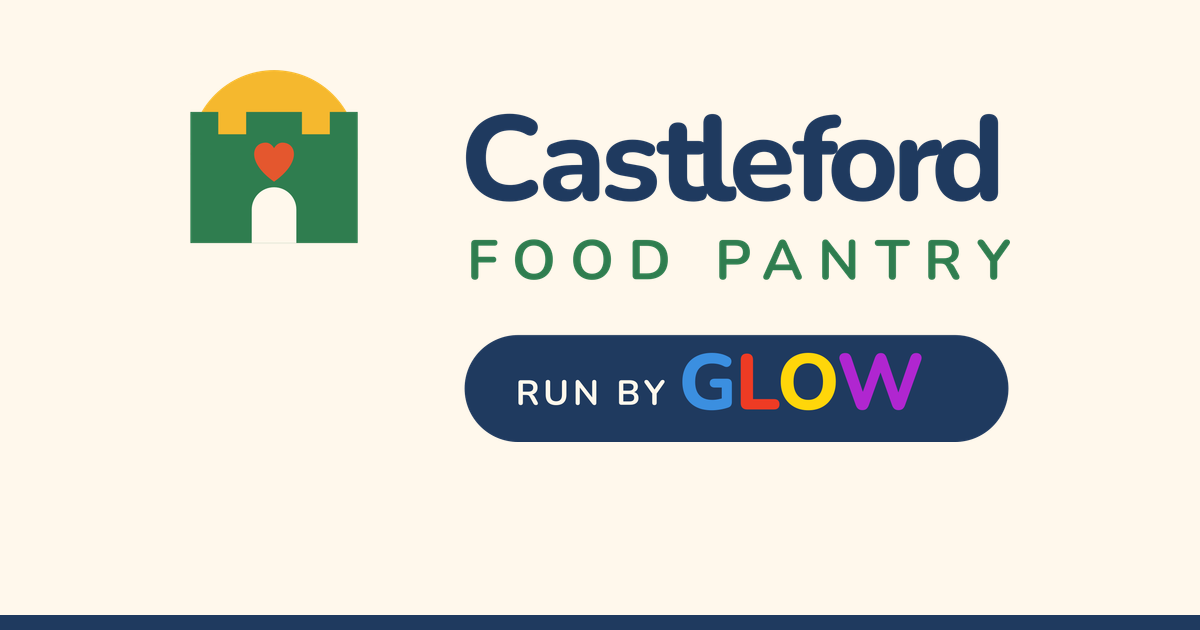
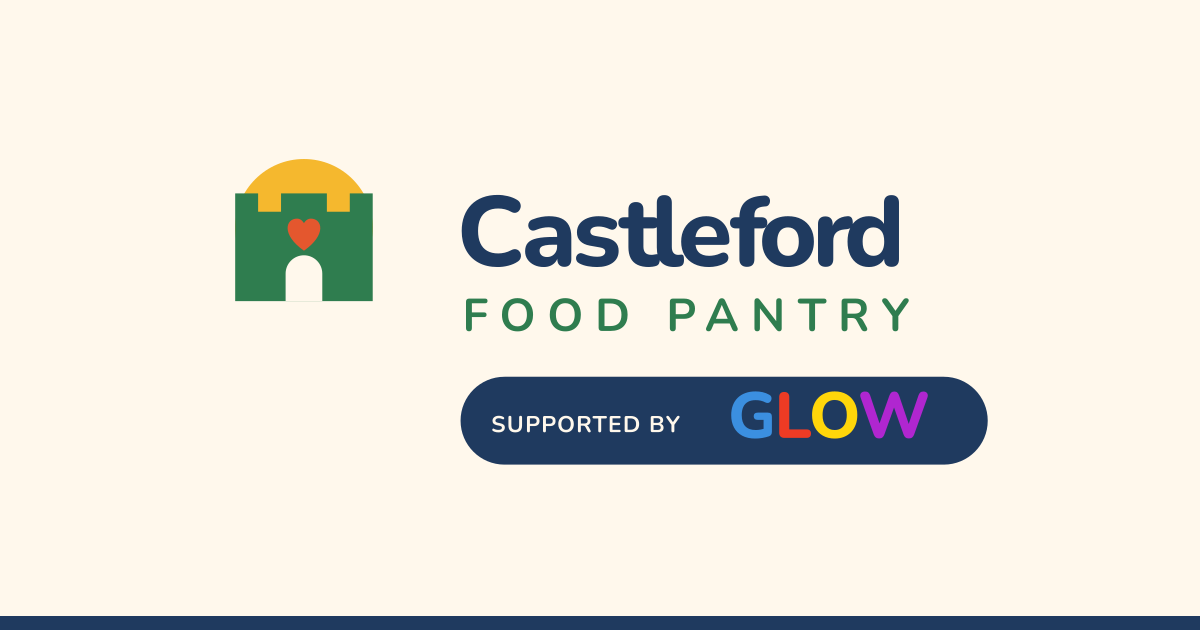
content: replace 'hosted by GLOW' with 'supported by GLOW' across the site and spec

Changed region(s): [[0.37, 0.181, 0.8633, 0.754], [0.1542, 0.0905, 0.3083, 0.4825]]

diff --git a/wp-content/themes/castleford-food-pantry/patterns/site-footer.php b/wp-content/themes/castleford-food-pantry/patterns/site-footer.php
@@ -12,7 +12,7 @@ $home = esc_url( home_url( '/' ) );
 <div class="cfp-glowbar" aria-hidden="true"></div>
 <div class="cfp-footer__inner">
 	<div>
-		<img src="<?php echo cfp_asset( 'images/logo-banner.svg' ); ?>" width="260" height="130" alt="Castleford Community Food Pantry, hosted by GLOW" style="max-width:260px;height:auto;border-radius:1rem" loading="lazy" />
+		<img src="<?php echo cfp_asset( 'images/logo-banner.svg' ); ?>" width="260" height="130" alt="Castleford Community Food Pantry, supported by GLOW" style="max-width:260px;height:auto;border-radius:1rem" loading="lazy" />
 		<p style="margin-top:1.25rem"><?php esc_html_e( 'Together we can reduce waste, feed people, build community.', 'castleford-food-pantry' ); ?></p>
 		<?php echo cfp_glow_wordmark( 'cfp-glow--on-dark' ); ?>
 	</div>
@@ -37,6 +37,6 @@ $home = esc_url( home_url( '/' ) );
 		</ul>
 	</div>
 </div>
-<p class="cfp-footer__legal">&copy; <?php echo esc_html( gmdate( 'Y' ) ); ?> Castleford Community Food Pantry. The pantry is hosted by GLOW, who kindly provide space in their churches. GLOW does not run the pantry.</p>
+<p class="cfp-footer__legal">&copy; <?php echo esc_html( gmdate( 'Y' ) ); ?> Castleford Community Food Pantry. The pantry is supported by GLOW, who kindly provide space in their churches. GLOW does not run the pantry.</p>
 <!-- /wp:html --></footer>
 <!-- /wp:group -->

diff --git a/wp-content/themes/castleford-food-pantry/inc/helpers.php b/wp-content/themes/castleford-food-pantry/inc/helpers.php
@@ -8,17 +8,17 @@
 defined( 'ABSPATH' ) || exit;
 
 /**
- * Multicolour GLOW wordmark (Req 2.6, 10.1, 10.2; wording per owner: GLOW hosts, does not run, the pantry).
+ * Multicolour GLOW wordmark (Req 2.6, 10.1, 10.2; wording per owner: GLOW supports, but does not run, the pantry).
  *
  * Each letter uses its own colour token. The group is exposed to assistive tech
- * as a single image labelled "hosted by GLOW".
+ * as a single image labelled "supported by GLOW".
  *
  * @param string $class Extra class names.
  * @return string
  */
 function cfp_glow_wordmark( $class = '' ) {
-	return '<p class="cfp-glow ' . esc_attr( $class ) . '" role="img" aria-label="hosted by GLOW">'
-		. '<span class="cfp-glow__by" aria-hidden="true">hosted by</span> '
+	return '<p class="cfp-glow ' . esc_attr( $class ) . '" role="img" aria-label="supported by GLOW">'
+		. '<span class="cfp-glow__by" aria-hidden="true">supported by</span> '
 		. '<span class="cfp-glow__word" aria-hidden="true">'
 		. '<span class="glow glow--g">G</span><span class="glow glow--l">L</span>'
 		. '<span class="glow glow--o">O</span><span class="glow glow--w">W</span>'

diff --git a/wp-content/themes/castleford-food-pantry/patterns/site-header.php b/wp-content/themes/castleford-food-pantry/patterns/site-header.php
@@ -14,7 +14,7 @@ $home = esc_url( home_url( '/' ) );
 <!-- wp:group {"className":"cfp-header","tagName":"header","layout":{"type":"default"}} -->
 <header class="wp-block-group cfp-header"><!-- wp:group {"className":"cfp-header__inner","layout":{"type":"default"}} -->
 <div class="wp-block-group cfp-header__inner"><!-- wp:html -->
-<a class="cfp-header__logo" href="<?php echo $home; ?>" aria-label="Castleford Community Food Pantry, hosted by GLOW - home"><img src="<?php echo cfp_asset( 'images/logo-horizontal.svg' ); ?>" width="450" height="200" alt="Castleford Community Food Pantry, hosted by GLOW" /></a>
+<a class="cfp-header__logo" href="<?php echo $home; ?>" aria-label="Castleford Community Food Pantry, supported by GLOW - home"><img src="<?php echo cfp_asset( 'images/logo-horizontal.svg' ); ?>" width="450" height="200" alt="Castleford Community Food Pantry, supported by GLOW" /></a>
 <!-- /wp:html -->
 
 <!-- wp:navigation {"overlayMenu":"mobile","ariaLabel":"Primary","layout":{"type":"flex","justifyContent":"right"}} -->

diff --git a/wp-content/themes/castleford-food-pantry/inc/seo.php b/wp-content/themes/castleford-food-pantry/inc/seo.php
@@ -28,7 +28,7 @@ function cfp_seo_head() {
 	if ( cfp_seo_plugin_active() || ! is_front_page() ) {
 		return;
 	}
-	$desc  = 'Castleford Community Food Pantry rescues surplus food from landfill and shares it with the community for £1. No referral needed. Sessions on Sundays and Fridays. Hosted by GLOW.';
+	$desc  = 'Castleford Community Food Pantry rescues surplus food from landfill and shares it with the community for £1. No referral needed. Sessions on Sundays and Fridays. Supported by GLOW.';
 	$title = 'Castleford Community Food Pantry | Surplus food for just £1';
 	$url   = home_url( '/' );
 	$image = get_theme_file_uri( 'assets/images/og-image.png' );
@@ -44,7 +44,7 @@ function cfp_seo_head() {
 		'og:image'        => $image,
 		'og:image:width'  => '1200',
 		'og:image:height' => '630',
-		'og:image:alt'    => 'Castleford Community Food Pantry, hosted by GLOW',
+		'og:image:alt'    => 'Castleford Community Food Pantry, supported by GLOW',
 		'og:locale'       => 'en_GB',
 	);
 	foreach ( $og as $k => $v ) {

diff --git a/wp-content/themes/castleford-food-pantry/patterns/hero.php b/wp-content/themes/castleford-food-pantry/patterns/hero.php
@@ -29,7 +29,7 @@ $home = esc_url( home_url( '/' ) );
 					<source src="<?php echo cfp_asset( 'video/castleford-food-pantry-video.mp4' ); ?>" type="video/mp4" />
 				</video>
 			</div>
-			<div class="cfp-hero__badge"><img src="<?php echo cfp_asset( 'images/logo-badge.svg' ); ?>" width="400" height="400" alt="Castleford Community Food Pantry, hosted by GLOW" /></div>
+			<div class="cfp-hero__badge"><img src="<?php echo cfp_asset( 'images/logo-badge.svg' ); ?>" width="400" height="400" alt="Castleford Community Food Pantry, supported by GLOW" /></div>
 		</div>
 	</div>
 </section>

diff --git a/wp-content/themes/castleford-food-pantry/patterns/about.php b/wp-content/themes/castleford-food-pantry/patterns/about.php
@@ -26,7 +26,7 @@
 <!-- /wp:paragraph -->
 
 <!-- wp:paragraph -->
-<p>The pantry is hosted by <strong>GLOW</strong>, who generously provide space in their churches so we can run our sessions. GLOW does not run the pantry. It is a community effort powered by local volunteers.</p>
+<p>The pantry is supported by <strong>GLOW</strong>, who generously provide space in their churches so we can run our sessions. GLOW does not run the pantry. It is a community effort powered by local volunteers.</p>
 <!-- /wp:paragraph -->
 
 <!-- wp:paragraph {"className":"cfp-eyebrow"} -->

diff --git a/.kiro/specs/castleford-food-pantry-website/design.md b/.kiro/specs/castleford-food-pantry-website/design.md
@@ -37,9 +37,9 @@ The tone and structure follow established UK community-charity sites — a warm 
 
 Three candidates exist in `website-images/`:
 
-- `v2-1-castle-sun-glow.svg` — horizontal lockup: sun/castle mark, "Castleford / FOOD PANTRY", and a "RUN BY GLOW" pill.
+- `v2-1-castle-sun-glow.svg` — horizontal lockup: sun/castle mark, "Castleford / FOOD PANTRY", and a "SUPPORTED BY GLOW" pill.
 - `v2-2-badge-glow.svg` — circular GLOW badge: "CASTLEFORD COMMUNITY · FOOD PANTRY" curved around a central GLOW mark.
-- `v2-3-battlement-glow.svg` — castle-battlement banner shape with a "RUN BY GLOW" footer bar.
+- `v2-3-battlement-glow.svg` — castle-battlement banner shape with a "SUPPORTED BY GLOW" footer bar.
 
 **Recommendation: the circular GLOW badge (`v2-2-badge-glow.svg`) is the authentic brand mark and is the primary identity.** The real flyer uses this circular badge — "CASTLEFORD COMMUNITY · FOOD PANTRY" curved around a central GLOW mark — as its hero brand mark, with the wordmark set as "CASTLEFORD COMMUNITY" (navy) / "FOOD" (orange-red) / "PANTRY" (purple). Because this matches the pantry's actual, published identity, the design treats it as the real brand mark. Rationale:
 
@@ -47,7 +47,7 @@ Three candidates exist in `website-images/`:
 - Its square format (400×400) is ideal as the **primary hero identity mark, favicon, and Open Graph / social-share image**.
 - It presents the organization name, the "FOOD PANTRY" descriptor, and the multicolor GLOW mark together, supporting Req 3.1, 10.2, and 10.3.
 
-**Practical header note:** a square badge forces either a small or an oversized header on wide viewports, so the horizontal lockup (`v2-1-castle-sun-glow.svg`, 580×200) is used as the **header lockup where a wide format is needed** — it scales down for mobile without the text becoming unreadable while still presenting the mark, name, and "RUN BY GLOW" attribution. `v2-3-battlement-glow.svg` is retained as an **alternate footer banner** option. All three SVGs remain available in the theme, and all use the four GLOW letter colors correctly, so any can satisfy Req 2.6.
+**Practical header note:** a square badge forces either a small or an oversized header on wide viewports, so the horizontal lockup (`v2-1-castle-sun-glow.svg`, 580×200) is used as the **header lockup where a wide format is needed** — it scales down for mobile without the text becoming unreadable while still presenting the mark, name, and "SUPPORTED BY GLOW" attribution. `v2-3-battlement-glow.svg` is retained as an **alternate footer banner** option. All three SVGs remain available in the theme, and all use the four GLOW letter colors correctly, so any can satisfy Req 2.6.
 
 ## Architecture
 
@@ -188,7 +188,7 @@ Each template is an HTML file of block markup. Every template references the sam
 **Site_Header (`parts/header.html`)**
 
 - Skip link (first focusable element, targets `#main`) — Req 12.7.
-- Site logo block linked to home, alt text "Castleford Community Food Pantry, run by GLOW" — Req 3.1, 10.3. The header uses the horizontal lockup (`v2-1`) where a wide format is needed, while the circular GLOW badge (`v2-2`) is the primary brand mark / favicon / social image.
+- Site logo block linked to home, alt text "Castleford Community Food Pantry, supported by GLOW" — Req 3.1, 10.3. The header uses the horizontal lockup (`v2-1`) where a wide format is needed, while the circular GLOW badge (`v2-2`) is the primary brand mark / favicon / social image.
 - Primary_Navigation block (core `navigation`) with entries for each section — Req 3.2.
 - Persistent support CTA button linking to the Support / Get Involved section (anchor `#donate`) — Req 3.5.
 - Navigation collapses to a menu control at ≤782px via the core navigation block's responsive overlay — Req 3.4.
@@ -197,7 +197,7 @@ Navigation entries use the core navigation link block, whose `url` may be an in-
 
 **Site_Footer (`parts/footer.html`)**
 
-- GLOW_Branding block (multicolor wordmark + "run by GLOW") — Req 10.1, 10.2.
+- GLOW_Branding block (multicolor wordmark + "supported by GLOW") — Req 10.1, 10.2.
 - Contact summary (email `castlefordcommunityfoodpantry@gmail.com`, the named phone contacts Laura / Kim / Tracy, and venue addresses) and social links — Req 11.1, 11.5.
 - Secondary navigation mirroring section anchors.
 - Attribution and copyright.
@@ -241,16 +241,16 @@ graph TD
 
 ### GLOW_Branding Component
 
-A small reusable markup fragment (used in hero and footer) rendering the wordmark as four `<span>`s, one per letter, each colored with the corresponding GLOW token, plus "run by GLOW" attribution text (Req 2.6, 10.1, 10.2).
+A small reusable markup fragment (used in hero and footer) rendering the wordmark as four `<span>`s, one per letter, each colored with the corresponding GLOW token, plus "supported by GLOW" attribution text (Req 2.6, 10.1, 10.2).
 
 ```html
-<p class="glow-wordmark" aria-label="run by GLOW">
-  <span class="glow-attr">run by</span>
+<p class="glow-wordmark" aria-label="supported by GLOW">
+  <span class="glow-attr">supported by</span>
   <span class="glow glow--g">G</span><span class="glow glow--l">L</span><span class="glow glow--o">O</span><span class="glow glow--w">W</span>
 </p>
 ```
 
-Letter colors map to tokens: `glow-g` → `#3B8FE0`, `glow-l` → `#EE3B24`, `glow-o` → `#FFD60A`, `glow-w` → `#B026D0`. The `aria-label` ensures the wordmark announces as "run by GLOW" rather than four separate letters.
+Letter colors map to tokens: `glow-g` → `#3B8FE0`, `glow-l` → `#EE3B24`, `glow-o` → `#FFD60A`, `glow-w` → `#B026D0`. The `aria-label` ensures the wordmark announces as "supported by GLOW" rather than four separate letters.
 
 ### functions.php / inc interfaces
 

diff --git a/.kiro/specs/castleford-food-pantry-website/tasks.md b/.kiro/specs/castleford-food-pantry-website/tasks.md
@@ -114,7 +114,7 @@ Implementation languages: the theme ships as PHP/HTML/CSS/JSON (no build step re
 
 - [ ] 5. Build the GLOW_Branding reusable fragment
   - [x] 5.1 Implement the GLOW wordmark fragment
-    - Create the reusable markup (four letter `<span>`s mapped to glow-g/l/o/w tokens, `run by` attribution, `aria-label="run by GLOW"`) and supporting CSS in `assets/css/`
+    - Create the reusable markup (four letter `<span>`s mapped to glow-g/l/o/w tokens, `supported by` attribution, `aria-label="supported by GLOW"`) and supporting CSS in `assets/css/`
     - Make it includable from both the hero pattern and the footer part
     - _Requirements: 2.6, 10.1, 10.2_
 
@@ -125,7 +125,7 @@ Implementation languages: the theme ships as PHP/HTML/CSS/JSON (no build step re
 
 - [ ] 6. Build template parts (header and footer)
   - [x] 6.1 Implement Site_Header part
-    - Create `parts/header.html`: skip link (first focusable, targets `#main`), logo block (horizontal lockup `v2-1`) linked to home with alt "Castleford Community Food Pantry, run by GLOW", core Navigation block with an entry per section, persistent support CTA to `#donate`, responsive overlay at ≤782px
+    - Create `parts/header.html`: skip link (first focusable, targets `#main`), logo block (horizontal lockup `v2-1`) linked to home with alt "Castleford Community Food Pantry, supported by GLOW", core Navigation block with an entry per section, persistent support CTA to `#donate`, responsive overlay at ≤782px
     - Ensure navigation entries use the core navigation link block so `url` can be an anchor or page URL with no structural change
     - _Requirements: 3.1, 3.2, 3.4, 3.5, 3.6, 10.3, 12.7, 16.3_
 
@@ -351,7 +351,7 @@ Implementation languages: the theme ships as PHP/HTML/CSS/JSON (no build step re
 - Each property test runs a **minimum of 100 generated cases** with `fast-check` and is tagged `// Feature: castleford-food-pantry-website, Property N: <property text>`.
 - Pure analyzer helpers (clamp math, token resolution, validators, DOM analyzers) are extracted into `tools/analyzers/` so properties run in-memory under jsdom; layout/contrast properties use Playwright for a real layout engine.
 - Each task references specific requirements and, where applicable, a numbered correctness property from the design for traceability.
-- Implementation deviations from the original wording (owner-approved): GLOW is described as "hosted by GLOW" (GLOW provides the venues, does not run the pantry) rather than "run by GLOW"; hero CTAs are "Find a session" / "Support us"; JSON-LD uses the `NGO` type.
+- Implementation deviations from the original wording (owner-approved): GLOW is described as "hosted by GLOW" (GLOW provides the venues, does not run the pantry) rather than "supported by GLOW"; hero CTAs are "Find a session" / "Support us"; JSON-LD uses the `NGO` type.
 - The theme runs with no build step; `tools/` scripts (WebP conversion, poster extraction, SVGO) are developer conveniences only.
 - All 34 correctness properties are covered: Properties 1,4,5,6,7,8,10 (tokens), 3,31 (assets), 9 (GLOW), 11,12 (nav), 13,14,15,16,17 (hero), 25 (support), 20 (images/alt), 26 (contact), 2,21 (templates), 32,33,34 (assets/SEO), 18,19,22,23,24,27,28,29,30 (a11y/responsive).
 

diff --git a/.kiro/specs/castleford-food-pantry-website/requirements.md b/.kiro/specs/castleford-food-pantry-website/requirements.md
@@ -27,7 +27,7 @@ The site draws tonal and structural inspiration from UK community-charity sites 
 - **Donate_Section**: The section explaining how a visitor, business, or supporter can support the pantry through surplus-food partnerships, volunteering, and spreading the word.
 - **Volunteer_Section**: The section explaining how a visitor can volunteer.
 - **Sponsors_Section**: The section showcasing partner brands and sponsors that support the pantry.
-- **GLOW_Branding**: The visual treatment that presents the multicolor "GLOW" wordmark and "run by GLOW" attribution as a prominent, eye-catching element.
+- **GLOW_Branding**: The visual treatment that presents the multicolor "GLOW" wordmark and "supported by GLOW" attribution as a prominent, eye-catching element.
 - **Contact_Section**: The section containing contact details, physical location, and an embedded map.
 - **Site_Footer**: The template part rendered at the bottom of every template containing attribution, contact summary, and secondary navigation.
 - **Site_Header**: The template part rendered at the top of every template containing the logo and primary navigation.
@@ -163,8 +163,8 @@ The site draws tonal and structural inspiration from UK community-charity sites 
 #### Acceptance Criteria
 
 1. THE Site SHALL display GLOW_Branding in the Hero_Section and the Site_Footer.
-2. THE GLOW_Branding SHALL present the "run by GLOW" attribution text alongside the GLOW wordmark.
-3. THE Site SHALL provide a text alternative of "Castleford Community Food Pantry, run by GLOW" for the primary logo image.
+2. THE GLOW_Branding SHALL present the "supported by GLOW" attribution text alongside the GLOW wordmark.
+3. THE Site SHALL provide a text alternative of "Castleford Community Food Pantry, supported by GLOW" for the primary logo image.
 
 ### Requirement 11: Contact and Location Section
 
